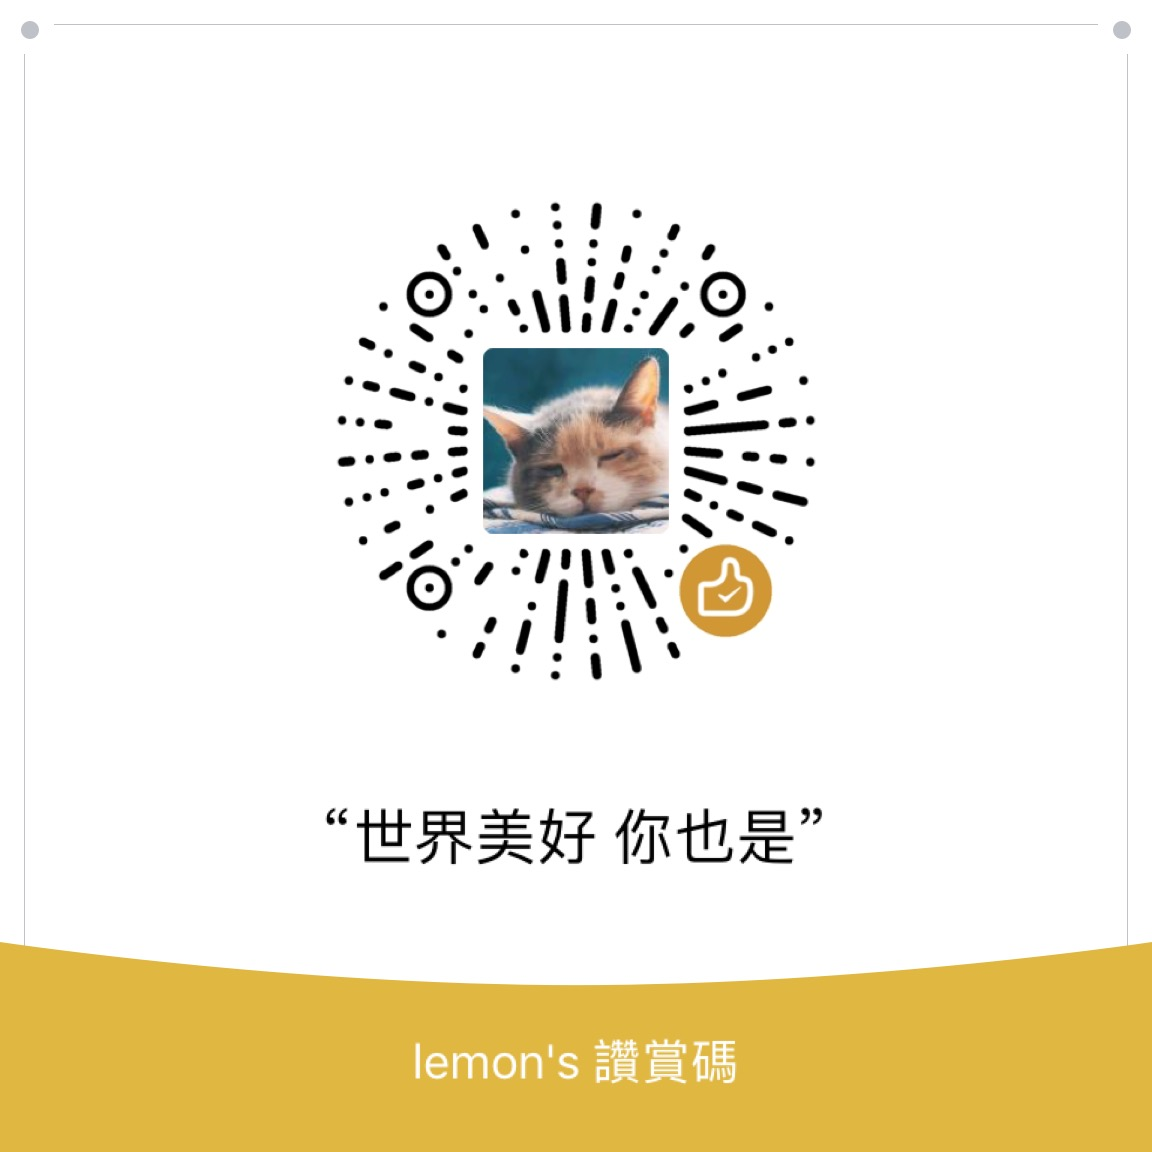
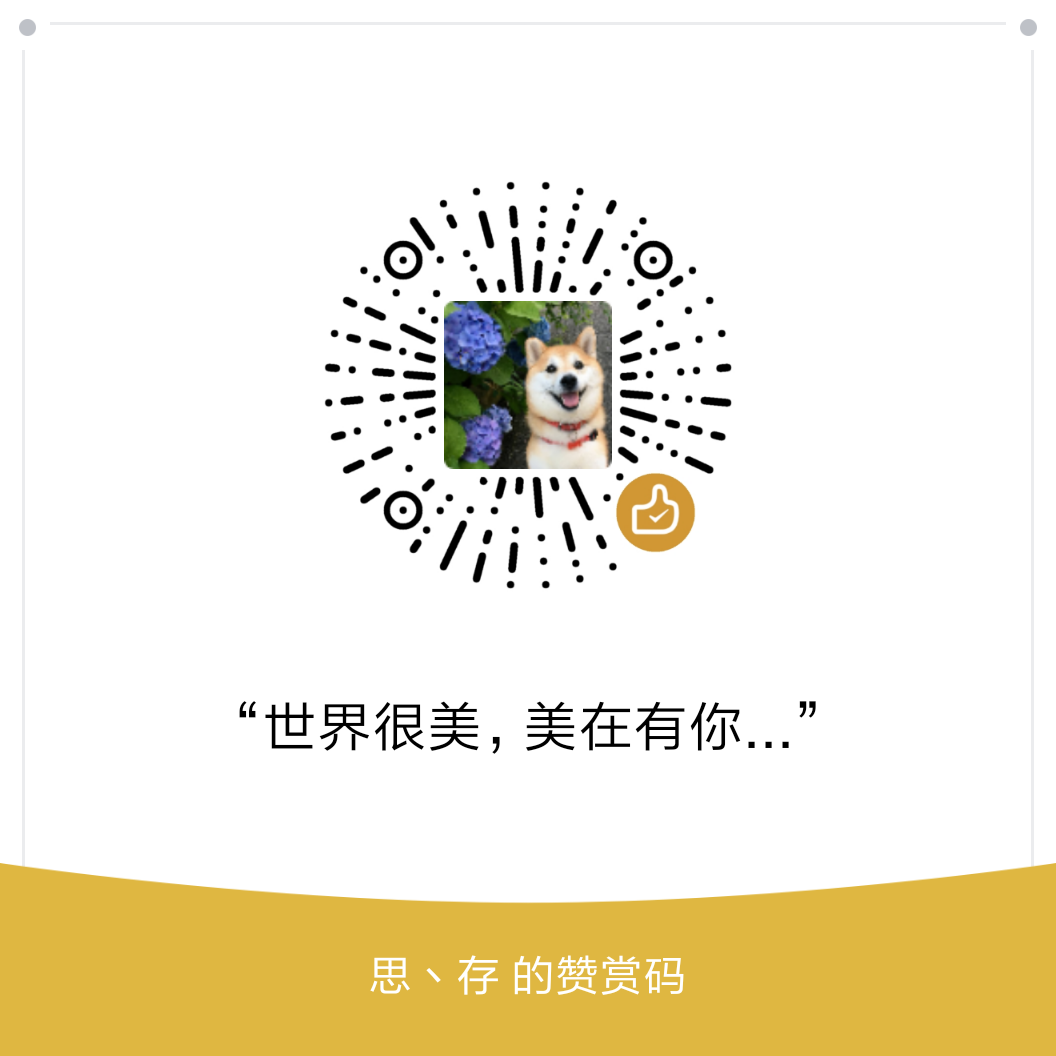
Site updated: 2018-08-08 17:35:49

diff --git a/2018/08/06/hello-world/index.html b/2018/08/06/hello-world/index.html
@@ -146,7 +146,7 @@
 
 	<div class="donate-img-box">
 		<img id="donate-qr-wechat" class="noLazyLoad donate-img" src="/images/donate1.png" alt="No Donate Image!">	
-		<img id="donate-qr-alipay" class="noLazyLoad donate-img" src="/images/donate2.png" alt="No Donate Image!">	
+		<img id="donate-qr-alipay" class="noLazyLoad donate-img" src="/images/donate2.jpg" alt="No Donate Image!">	
 	</div>
 
 	<span class="donate-word">世界很美，美在有你...</span>
@@ -197,22 +197,25 @@
 	
 
 
-    
-    <div id="disqus_thread"></div>
+    <div id="comment">   
+    </div>
+
+    <script src="//cdn1.lncld.net/static/js/3.0.4/av-min.js"></script>
+    <script src="//unpkg.com/valine/dist/Valine.min.js"></script>
 
     <script>
-    (function() { 
-    var d = document, s = d.createElement('script');
-    s.src = 'https://'+'lemonreds'+'.disqus.com/embed.js';
-    s.setAttribute('data-timestamp', +new Date());    
-    (d.head || d.body).appendChild(s);
-    })();
+        new Valine({
+			el: '#comment',
+			notify: false, 
+			verify: false, 
+			app_id: 'KdBEOrmsVTUkBB43Ijx5j25d-gzGzoHsz',
+			app_key: 'jsKmKvo9W9vxprFRyfInIxRt',  
+			path: window.location.pathname, 
+			avatar: 'mm' ,
+			guest_info: ['nick','mail'],
+			placeholder: 'leave your footprints'
+        });
     </script>
-
-    <noscript>Please enable JavaScript to view the  <a href="https://disqus.com/?ref_noscript">comments powered by Disqus.</a>
-    </noscript>
-
-
 	
 </article>
 
